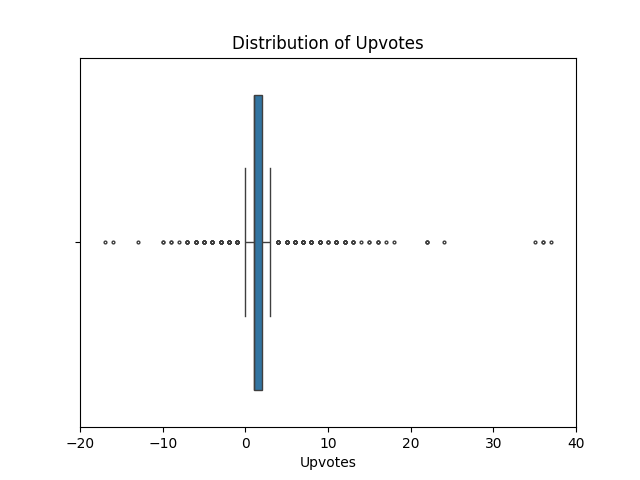
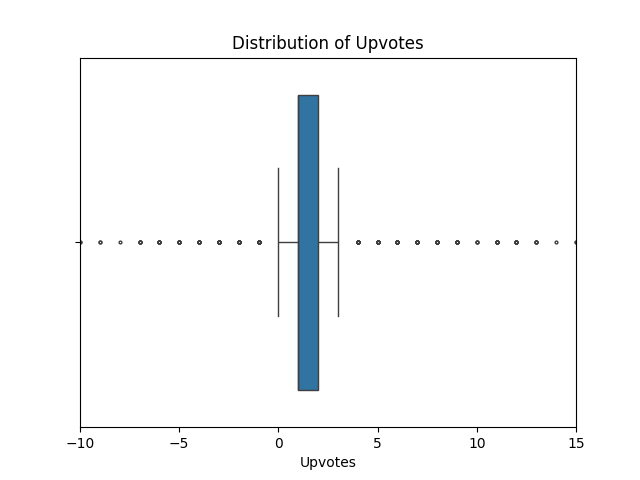
update

diff --git a/07_Project/data_visualization.py b/07_Project/data_visualization.py
@@ -1,0 +1,139 @@
+import pandas as pd
+import seaborn as sns
+import matplotlib.pyplot as plt
+import ast
+plt.rcParams['lines.markersize'] = 2
+
+# Load the CSV file into a DataFrame
+df = pd.read_csv("df_sa_extralabels_clean_comments.csv")
+
+# Data Exploration
+print(df.head())  # Check the first few rows of the DataFrame
+print(df.info())  # Get information about the DataFrame
+
+# Data Visualization
+
+# 1. Bar Plot: Number of Comments by Time of Day
+sns.countplot(x='time_of_day', data=df)
+plt.title('Number of Comments by Time of Day')
+plt.xlabel('Time of Day')
+plt.ylabel('Number of Comments')
+plt.xticks(rotation=45)  # Rotate x-axis labels for better readability
+plt.savefig('comments_by_time_of_day.png')  # Save the plot as an image file
+plt.close()
+
+# 2. Histogram: Distribution of Upvotes
+sns.histplot(df['upvotes'], bins=20)
+plt.title('Distribution of Upvotes')
+plt.xlabel('Upvotes')
+plt.xlim(-20, 25)
+plt.ylabel('Frequency')
+plt.savefig('upvotes_distribution.png')  # Save the plot as an image file
+plt.close()
+
+# 2.5 Box Plot
+sns.boxplot(x='upvotes', data=df)
+plt.title('Distribution of Upvotes')
+plt.xlabel('Upvotes')
+plt.xlim(-10, 15)
+plt.savefig('upvotes_boxplot.png')  # Save the plot as an image file
+plt.close()
+
+# 3. Box Plot: Upvotes by Time of Day
+sns.boxplot(x='time_of_day', y='upvotes', data=df)
+plt.title('Upvotes by Time of Day')
+plt.xlabel('Time of Day')
+plt.ylim(-10, 25)
+plt.ylabel('Upvotes')
+plt.xticks(rotation=45)  # Rotate x-axis labels for better readability
+plt.savefig('upvotes_by_time_of_day.png')  # Save the plot as an image file
+plt.close()
+
+# 4. Scatter Plot: Upvotes vs. Sentiment Score
+sns.scatterplot(x='upvotes', y='sentiment_scores', data=df)
+plt.title('Upvotes vs. Sentiment Score')
+plt.xlabel('Upvotes')
+plt.xlim(-10, 30)
+plt.ylabel('Sentiment Score')
+plt.savefig('upvotes_vs_sentiment_score.png')  # Save the plot as an image file
+plt.close()
+
+# 4.5 Scatter Plot: Upvotes vs. Compound Sentiment Score
+import ast  # Import ast module to handle string to dictionary conversion
+
+# Load the CSV file into a DataFrame
+comments = pd.read_csv("df_sa_extralabels_clean_comments.csv")
+
+# Convert the string representation of sentiment scores to dictionaries
+comments["sentiment_scores"] = comments["sentiment_scores"].apply(ast.literal_eval)
+
+# Create a new column "compound_score" by extracting the "compound" value from "sentiment_scores"
+comments["compound_score"] = comments["sentiment_scores"].apply(lambda x: x["compound"])
+
+# Scatter Plot: Upvotes vs. Compound Sentiment Score
+sns.scatterplot(x='upvotes', y='compound_score', data=comments)
+plt.title('Upvotes vs. Compound Sentiment Score')
+plt.xlabel('Upvotes')
+plt.xlim(-15,20)
+plt.ylabel('Compound Sentiment Score')
+plt.savefig('upvotes_vs_compound_sentiment_score.png')  # Save the plot as an image file
+plt.close()
+
+# 5. Pair Plot: Pairwise Relationships
+sns.pairplot(df[['upvotes', 'hour', 'sentiment_scores']])
+plt.title('Pairwise Relationships')
+plt.savefig('pairwise_relationships.png')  # Save the plot as an image file
+plt.close()
+
+
+
+
+'''
+import pandas as pd
+import seaborn as sns
+import matplotlib.pyplot as plt
+
+# Load the CSV file into a DataFrame
+df = pd.read_csv("df_sa_extralabels_clean_comments.csv")
+
+# Data Exploration
+print(df.head())  # Check the first few rows of the DataFrame
+print(df.info())  # Get information about the DataFrame
+
+# Data Visualization
+
+# 1. Bar Plot: Number of Comments by Time of Day
+sns.countplot(x='time_of_day', data=df)
+plt.title('Number of Comments by Time of Day')
+plt.xlabel('Time of Day')
+plt.ylabel('Number of Comments')
+plt.xticks(rotation=45)  # Rotate x-axis labels for better readability
+plt.show()
+
+# 2. Histogram: Distribution of Upvotes
+sns.histplot(df['upvotes'], bins=20)
+plt.title('Distribution of Upvotes')
+plt.xlabel('Upvotes')
+plt.ylabel('Frequency')
+plt.show()
+
+# 3. Box Plot: Upvotes by Time of Day
+sns.boxplot(x='time_of_day', y='upvotes', data=df)
+plt.title('Upvotes by Time of Day')
+plt.xlabel('Time of Day')
+plt.ylabel('Upvotes')
+plt.xticks(rotation=45)  # Rotate x-axis labels for better readability
+plt.show()
+
+# 4. Scatter Plot: Upvotes vs. Sentiment Score
+sns.scatterplot(x='upvotes', y='sentiment_scores', data=df)
+plt.title('Upvotes vs. Sentiment Score')
+plt.xlabel('Upvotes')
+plt.ylabel('Sentiment Score')
+plt.show()
+
+# 5. Pair Plot: Pairwise Relationships
+sns.pairplot(df[['upvotes', 'hour', 'sentiment_scores']])
+plt.title('Pairwise Relationships')
+plt.show()
+'''
